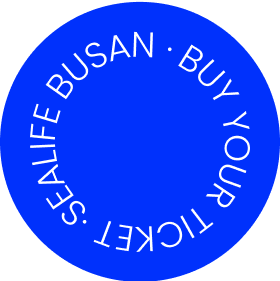
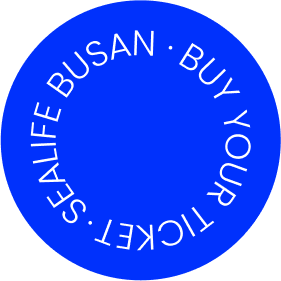
1007

diff --git a/src/components/Ticket.js b/src/components/Ticket.js
@@ -1,8 +1,93 @@
 import React from 'react'
+import '../css/Ticket.scss'
+import { Link } from 'react-router-dom'
 
 const Ticket = () => {
+
+    const ticketing = [
+        { id: 1, title: '사전예약 할인권 (온라인)', price: '21,000', con: '대인(14세 이상)', },
+        { id: 2, title: '해피타임 입장권 (온라인)', price: '19,500', con: '1인권 (대, 소인 구분없음)', },
+        { id: 3, title: '온라인 특가 패키지 (온라인)', price: '29,000', con: '1인권 (대, 소인 구분없음)', },
+        { id: 4, title: '기업체 입장권 (온라인)', price: '21,000', con: '대인(14세 이상)', },
+    ]
+    const rule = [
+        { id: 1, des: '입장 시 QR코드를 보여주세요.' },
+        { id: 2, des: '방문일 전 사전예약으로 풍성한 할인혜택.' },
+        { id: 3, des: '36개월 미만 무료입장 가능.' },
+        { id: 4, des: '전날까지 최대 5번 일정변경 가능.' },
+    ]
+
     return (
-        <div>Ticket</div>
+        <div className='Ticket'>
+            <div className="banner">
+                <img src={process.env.PUBLIC_URL + '/assets/banner02.png'} alt="" />
+                <h2>Online Ticketing</h2>
+            </div>
+
+            <div className="ticket_con sc">
+                <div className="inner">
+                    <h2>온라인 입장권</h2>
+                    <p>부산 가족여행객을 위한 사전 예약 20% 할인, 해피타임 30% 할인 등<br />
+                        씨라이프 부산 입장권을 합리적인 가격에 만나보세요.</p>
+                    <div className="ticket_con_list">
+                        {
+                            ticketing.map((it, idx) => {
+                                return (
+                                    <figure>
+                                        <img src={process.env.PUBLIC_URL + `/assets/ticket0${it.id}.png`} alt="" />
+                                        <div className="des">
+                                            <h2>{it.title}</h2>
+                                            <strong>{it.price}</strong>
+                                            <p>{it.con}</p>
+                                            <ul className='rule'>
+                                                {
+                                                    rule.map((it, idx) => {
+                                                        return (
+                                                            <li key={idx}>- {it.des}</li>
+                                                        )
+                                                    })
+                                                }
+                                            </ul>
+                                            <div className="button">
+                                                <Link to='/'>온라인 예약하기</Link>
+                                            </div>
+                                        </div>
+                                    </figure>
+                                )
+                            })
+                        }
+
+
+                    </div>
+                </div>
+            </div>
+            <div className="plan sc">
+                <div className="inner">
+                    <h2>방문일정 변경</h2>
+                    <p>씨라이프부산 탐험 전, 갑작스러운 일정 변경이 필요하신가요?<br />
+                        방문 전날까지 최대 5번 일정변경이 가능합니다.</p>
+                    <div className="img">
+                        <Link to='/show' className="imgbtn">
+                            <img src={process.env.PUBLIC_URL + '/assets/plan01.png'} alt="" />
+                            <div className="con">
+                                <strong>방문일정 변경</strong>
+                                <p>방문 전날까지 최대 5번 변경가능하며<br />
+                                    당일 입장은 변경이 불가합니다.</p>
+                            </div>
+                        </Link>
+                        <Link to='/show' className="imgbtn">
+                            <img src={process.env.PUBLIC_URL + '/assets/plan02.png'} alt="" />
+                            <div className="con">
+                                <strong>공연일정 확인</strong>
+                                <p>즐거운 공연 관람을 위해<br />
+                                    공연일정을 확인바랍니다.</p>
+                            </div>
+                        </Link>
+                    </div>
+                </div>
+
+            </div >
+        </div >
     )
 }
 

diff --git a/src/components/Show.js b/src/components/Show.js
@@ -1,8 +1,61 @@
 import React from 'react'
+import '../css/Show.scss'
+import { Link } from 'react-router-dom'
 
 const Show = () => {
     return (
-        <div>Show</div>
+        <div className='Show'>
+            <div className="banner">
+                <img src={process.env.PUBLIC_URL + '/assets/banner01.png'} alt="" />
+                <h2>SEA LIFE Performance info</h2>
+            </div>
+            <div className="show_con sc">
+                <div className="inner">
+                    <h2>바다거북 구조대</h2>
+                    <p>구조부터 이름짓기, 엑스레이 촬영, 치료. 마지막 바다로 돌려보내기까지!<br />
+                        실제 구조활동과 유사한 바다거북 구조대 전시존에서 다양한 체험활동으로 하루순삭,<br />
+                        여러분도 부산아쿠아리움에서 바다거북 구조대가 되어보세요!</p>
+                </div>
+                <div className="show_con_img">
+                    <img src={process.env.PUBLIC_URL + '/assets/show_con.png'} alt="" />
+                    <div className="inner">
+                        <strong>SEA TURTLE</strong>
+                    </div>
+                </div>
+                <div className="des">
+                    <div className="inner">
+                        <span>RESCUE TEAM</span>
+                        <p>구조부터 이름짓기, 엑스레이 촬영, 치료. 마지막 바다로 돌려보내기까지!<br />
+                            실제 구조활동과 유사한 바다거북 구조대 전시존에서 다양한 체험활동으로 하루순삭, <br />
+                            여러분도 부산아쿠아리움에서 바다거북 구조대가 되어보세요!</p>
+                    </div>
+                </div>
+
+                <div className="gallery">
+                    <div className="inner">
+                        <h2>Exhibition Gallery</h2>
+                        <p>실제 구조활동과 유사한 바다거북 구조대 전시존에서 다양한 체험으로<br />
+                            부산아쿠아리움에서 바다거북 구조대가 되어보세요!</p>
+                        <div className="img">
+                            <img src={process.env.PUBLIC_URL + '/assets/show_gall01.png'} alt="" />
+                            <img src={process.env.PUBLIC_URL + '/assets/show_gall02.png'} alt="" />
+                            <img src={process.env.PUBLIC_URL + '/assets/show_gall03.png'} alt="" />
+                        </div>
+                        <div className="button">
+                            <Link to='/ticket'>온라인 예약하기</Link>
+                        </div>
+
+                    </div>
+                </div>
+            </div>
+
+
+
+
+
+
+
+        </div>
     )
 }
 

diff --git a/src/css/Ticket.scss b/src/css/Ticket.scss
@@ -1,0 +1,42 @@
+@use'common';
+
+.Ticket {
+    .ticket_con {
+        .ticket_con_list {
+            display: flex; gap: 20px;
+
+            figure {
+                background: white; box-shadow: rgba(149, 157, 165, 0.2) 0px 8px 24px; border-radius: 20px;
+
+                .des {
+                    padding: 40px 30px 40px 30px;
+
+                    h2 { font-size: 20px; font-weight: 600; }
+                    strong { display: inline-block; font-size: 35px; color: common.$mainColor; font-weight: 900; margin: 0 0 10px 0; }
+                    p { font-size: 13px; }
+                    .rule { margin: 0 0 50px 0; font-size: 15px; line-height: 25px; // li::before { content: ''; width: 5px; height: 5px; background: common.$mainColor; border-radius: 50%; margin-right: 15px; }
+}
+                    .button {
+                        text-align: center;
+
+                        a { padding: 10px 90px; border-radius: 15px; background: common.$mainColor; color: white; }
+                    }
+                }
+            }
+        }
+    }
+    .plan {
+        background: #fafafa;
+
+        .img {
+           display: flex; gap: 20px;
+
+            .imgbtn { position: relative; color: white;
+                .con { position: absolute; left: 50px; bottom: 0px;
+                strong{display: inline-block; font-size: 30px; font-weight: 600; margin: 0 0 20px 0;}
+                }
+            }
+          
+        }
+    }
+}

diff --git a/src/css/Show.scss b/src/css/Show.scss
@@ -1,0 +1,32 @@
+@use'common';
+
+.Show {
+    .show_con {
+        .show_con_img {
+            position: relative; width: 1600px; margin: 0 auto 30px auto;
+
+            strong { position: absolute; inset: auto auto 0 calc((100% - 1420px)/2); font-weight: 900; font-size: 150px; -webkit-text-stroke: 1px white; color: transparent; font-family: 'poppins'; transform: translateY(24px); }
+        }
+        .des {
+            margin: 0 0 100px 0;
+
+            .inner {
+                display: flex; gap: 150px;
+
+                span { font-size: 100px; font-weight: 900; color: black; font-family: 'poppins'; }
+                p { padding: 18px 0; }
+            }
+        }
+        .gallery {
+            .img {
+                display: flex; gap: 20px; margin: 0 0 60px 0;
+
+                img { width: 33.333%; }
+            }
+            .button{text-align: center;
+             a { padding: 10px 30px; border-radius: 15px; background: common.$mainColor; color: white; }
+            }
+           
+        }
+    }
+}

diff --git a/src/css/MainVisual.scss b/src/css/MainVisual.scss
@@ -26,11 +26,12 @@
     }
   }
   .button {
-    position: absolute; inset: 650px auto auto 50%; transform: translate(-50%,-50%); margin: 0 0 0 -450px;
+    position: absolute; inset: 650px auto auto 45%; transform: translate(-50%,-50%); margin: 0 0 0 -450px;
 
-    img { animation: rotate 6s linear infinite; transform-origin: 50% 50%; width: 50%; }
+    img { animation: rotate 6s linear infinite; transform-origin: 50% 50%; width: 140px; }
     @keyframes rotate {
       100% { transform: rotate(360deg); }
     }
   }
+  .cir02{  position: absolute; inset: 650px auto auto 45%; transform: translate(-50%,-50%); margin: 0 0 0 -450px; width: 140px;}
 }

diff --git a/src/css/common.scss b/src/css/common.scss
@@ -4,7 +4,14 @@ $mainColor: #0031FC;
 .inner {
     width: 1420px; margin: 0 auto;
 
-    h2 { font-size: 30px ; font-weight: 600; margin: 0 0 20px 0; }
+    h2 { color: #181818; font-size: 30px ; font-weight: 600; margin: 0 0 20px 0; }
     h3 { font-size: 25px ; font-weight: 600; margin: 0 0 20px 0; }
     p { line-height: 1.45; font-size: 15px; margin: 0 0 50px 0; }
+}
+.Show, .Ticket, .Sealife {
+    .banner {
+        position: relative;
+
+        h2 { position: absolute; inset: auto auto 100px calc((100% - 1420px)/2); font-family: 'poppins'; font-size: 80px; font-weight: 800; color: white;}
+    }
 }

diff --git a/src/components/MainVisual.js b/src/components/MainVisual.js
@@ -22,9 +22,14 @@ const MainVisual = () => {
 
             </div>
 
-            <Link to='/' className='button'>
+            <div className='button'>
                 <img src={process.env.PUBLIC_URL + '/assets/Main_cir01.png'} alt="" className='cir01' />
-            </Link >
+            </div >
+            <Link to='/ticket'>
+                <img src={process.env.PUBLIC_URL + '/assets/Main_cir02.png'} alt="" className='cir02' />
+            </Link>
+
+
 
 
         </div >

diff --git a/src/components/Sealife.js b/src/components/Sealife.js
@@ -2,7 +2,12 @@ import React from 'react'
 
 const Sealife = () => {
     return (
-        <div>Sealife</div>
+        <div className='Sealife'>
+            <div className="banner">
+                <img src={process.env.PUBLIC_URL + '/assets/banner03.png'} alt="" />
+                <h2>SEA LIFE BUSAN</h2>
+            </div>
+        </div>
     )
 }
 
